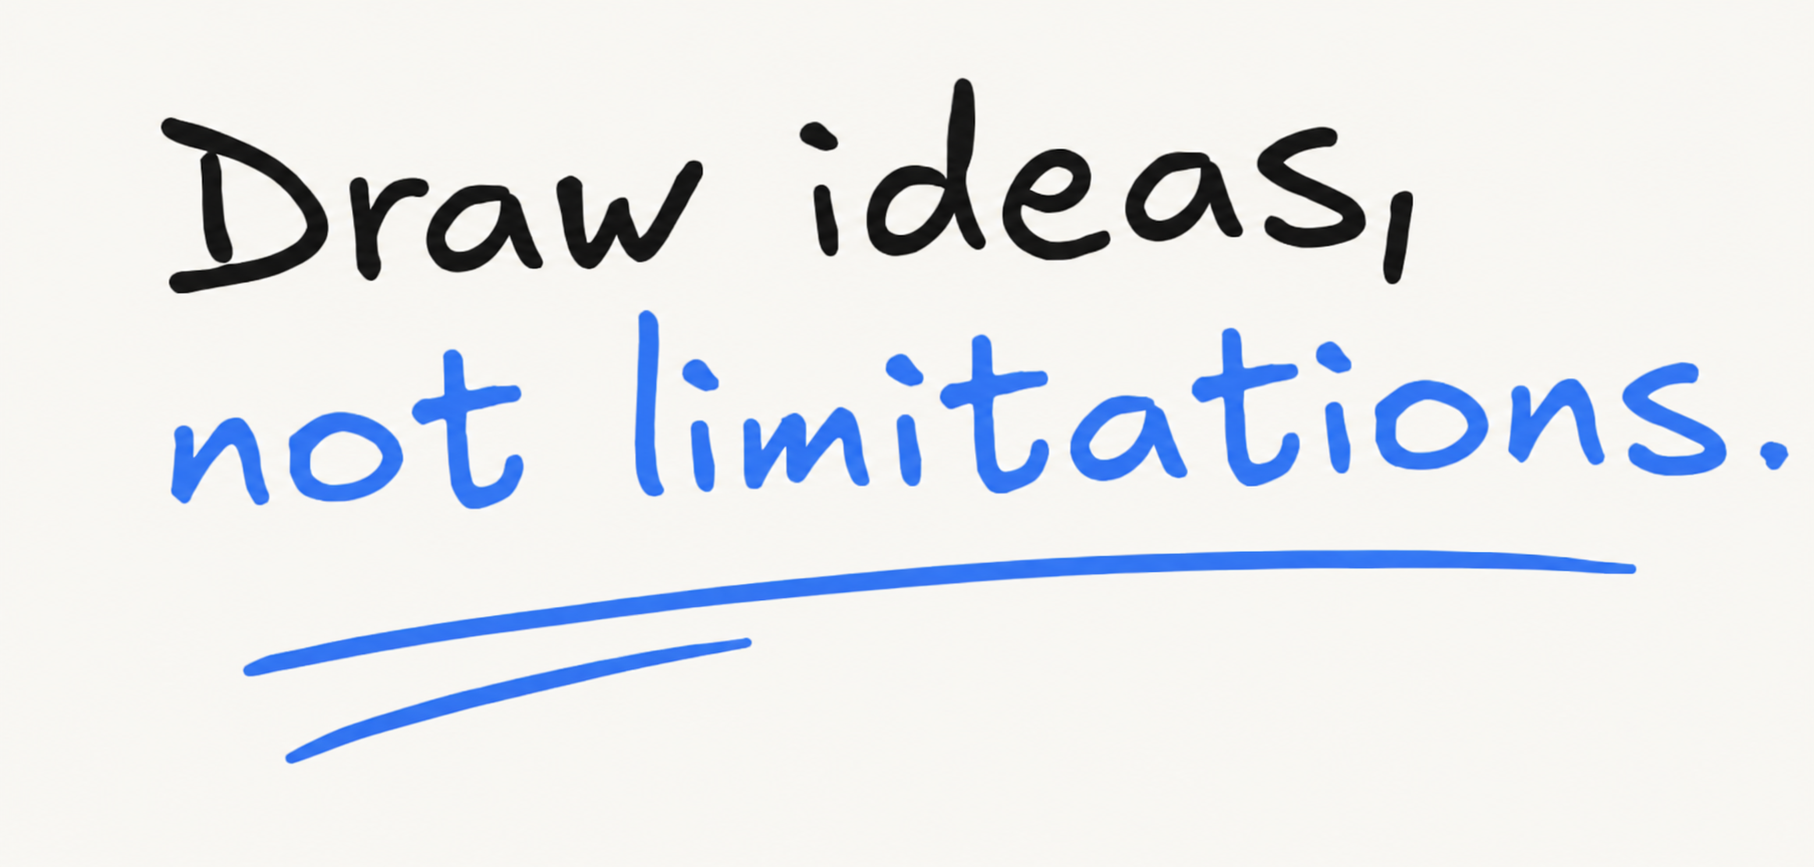
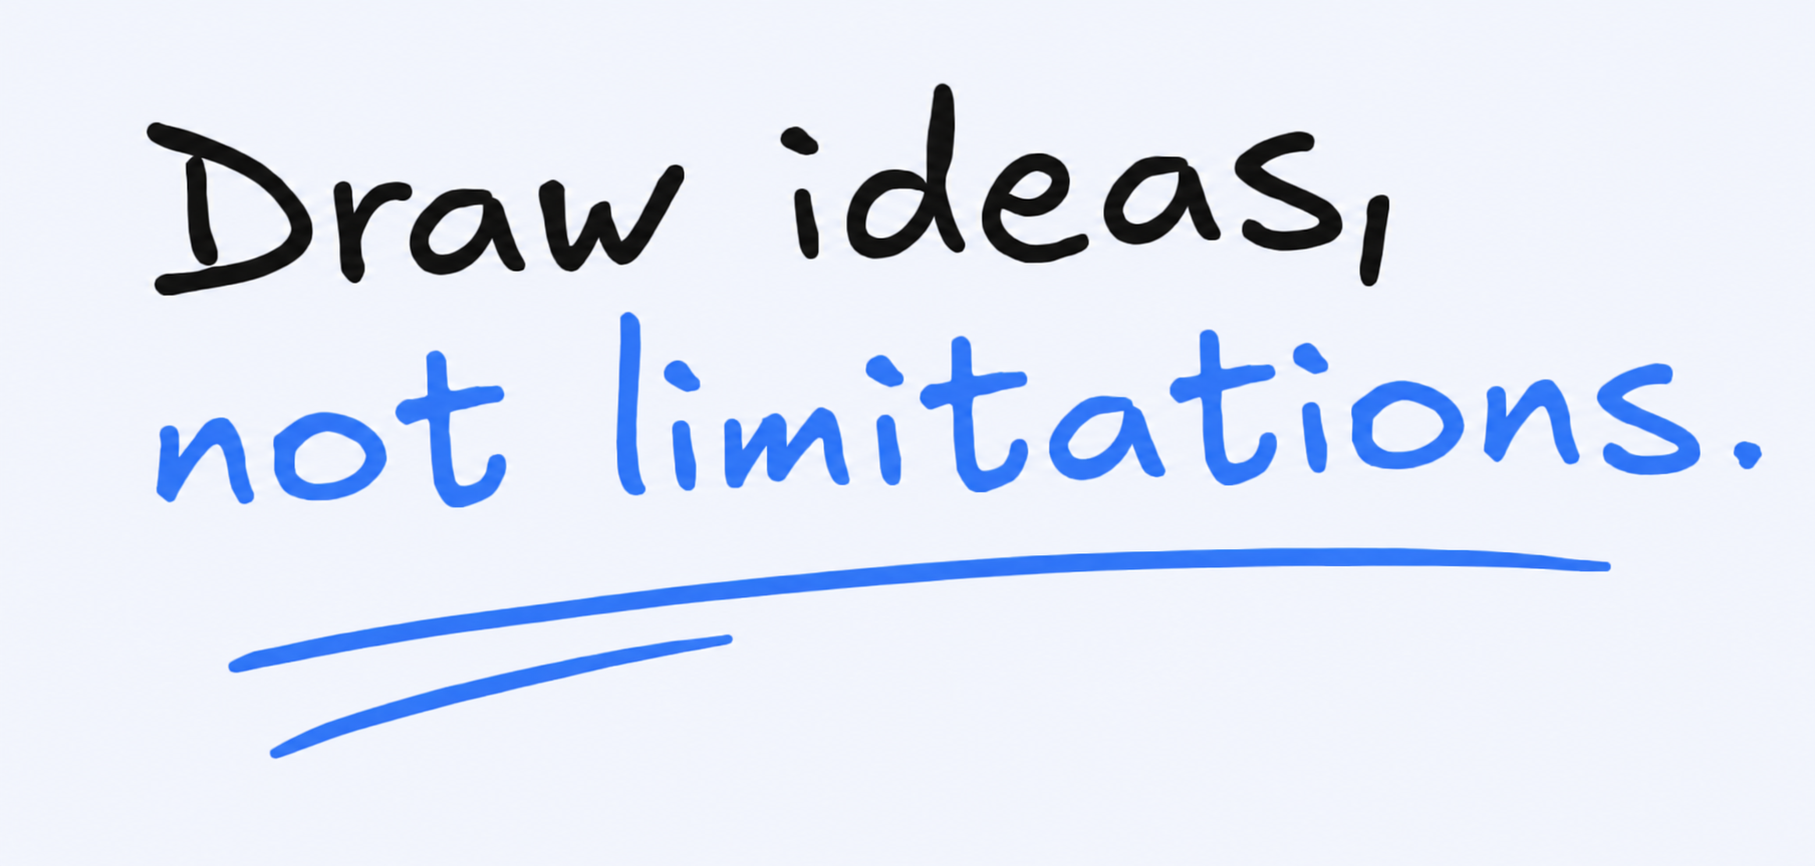
desgining the landing page

diff --git a/templates/landingPage.html b/templates/landingPage.html
@@ -17,7 +17,7 @@
         }
 
         body {
-            background: #F8F8F4;
+            background: #F2F5FC;
             display: flex;
             flex-direction: column;
             align-items: center;
@@ -46,7 +46,7 @@
         #topAreaLeft img {
             width: 400px;
             height: auto;
-            border: 2px solid black
+            border: 2px solid rgba(0, 0, 0, 0)
         }
 
         #midAreaLeft {
@@ -54,40 +54,157 @@
             width: 380px;
             text-align: center;
             opacity: 0.7;
-            border: 2px solid black;
+            border: 2px solid rgba(0, 0, 0, 0);
         }
 
         #bottomAreaLeft {
-            border: 2px solid black;
-            width:380px;
-            height:auto;
-            margin-top: 5px;
+            border: 2px solid rgba(0, 0, 0, 0);
+            width: 380px;
+            height: auto;
+            margin-top: 20px;
             display: flex;
+            gap: 15px
         }
 
         .leftButton {
             flex: 1;
             height: 50px;
-            font-size: 20px
+            font-size: 20px;
+            border-radius: 12px;
+            display: flex;
+            flex-direction: row;
+            align-items: center;
+            justify-content: center;
+            gap: 20px;
+            border: 0.5px solid #E6E6E1;
+            transition: all 0.5s ease;
         }
 
+        .leftButton:hover {
+            transform: scale(1.05);
+            cursor: pointer;
+        }
+
+        #startDrawing {
+            background-color: #4F7DFF;
+            color: white;
+        }
+
+        #exploreFeatures {
+            background: white;
+            color: black
+        }
 
         #headerArea {
             height: 80px;
-            border: 2px solid black;
+            border-bottom: 2px solid #E6E6E1;
             width: 100%;
+            display: flex;
+            flex-direction: row;
+            align-items: center;
+            justify-content: center;
+            gap: 20px
+        }
+
+        #tagline {
+            width: 170px;
+            height: 30px;
+            color: #235cf7;
+            background: #b5d6ff;
+            display: flex;
+            align-items: center;
+            justify-content: center;
+            border-radius: 8px;
+            font-size: 18px;
+            margin-left: 35px;
+        }
+
+        #logoArea {
+            flex: 1;
+            border: 2px solid rgba(0, 0, 0, 0);
+            display: flex;
+            align-items: center;
+        }
+
+        #logoArea img {
+            width: 200px;
+            height: auto;
+            margin-left: 50px;
+        }
+
+        #navArea {
+            flex: 1;
+            border: 2px solid rgba(0, 0, 0, 0);
+        }
+
+        #buttonArea {
+            flex: 1;
+            border: 2px solid rgba(0, 0, 0, 0);
+            height: 100%;
+            display: flex;
+            flex-direction: row;
+            justify-content: center;
+            align-items: center;
+            gap: 20px
+        }
+
+        #github {
+            background: transparent;
+            border: 2px solid rgba(0, 0, 0, 0)
+        }
+
+        #launchBtn {
+            background: #4F7DFF;
+            height: 40px;
+            widtH: 150px;
+            font-size: 20px;
             border-radius: 12px;
+            display: flex;
+            flex-direction: row;
+            align-items: center;
+            justify-content: center;
+            gap: 20px;
+            border: 0.5px solid #E6E6E1;
+            color: white;
+            transition: all 0.5s ease;
+        }
+
+        #launchBtn:hover {
+            transform: scale(1.05);
+            cursor: pointer;
+        }
+
+        #github img {
+            width: 64px;
+            height: 64px
         }
     </style>
 </head>
 
 <body>
     <header id="headerArea">
+        <div id="logoArea">
+            <img src="../static/assets/scribble.png">
+        </div>
+        <div id="navArea">
+
+        </div>
+
+        <div id="buttonArea">
+            <button id="github">
+                <img src="../static/assets/github.png">
+            </button>
+            <button id="launchBtn"><span>Launch App</span><span>↗</span></button>
+        </div>
+
 
     </header>
 
     <div id="mainArea">
         <div id="leftArea">
+            <div id="tagline">
+                ☆ Free • Fast • Private
+            </div>
             <div id="topAreaLeft">
                 <img src="../static/assets/picleft.png">
             </div>
@@ -96,7 +213,7 @@
                 creators, thinkers and doers
             </div>
             <div id="bottomAreaLeft">
-                <button id="startDrawing" class="leftButton">Start Drawing</button>
+                <button id="startDrawing" class="leftButton"><span>Start Drawing</span><span>➝</span></button>
                 <button id="exploreFeatures" class="leftButton">Explore Features</button>
             </div>
         </div>